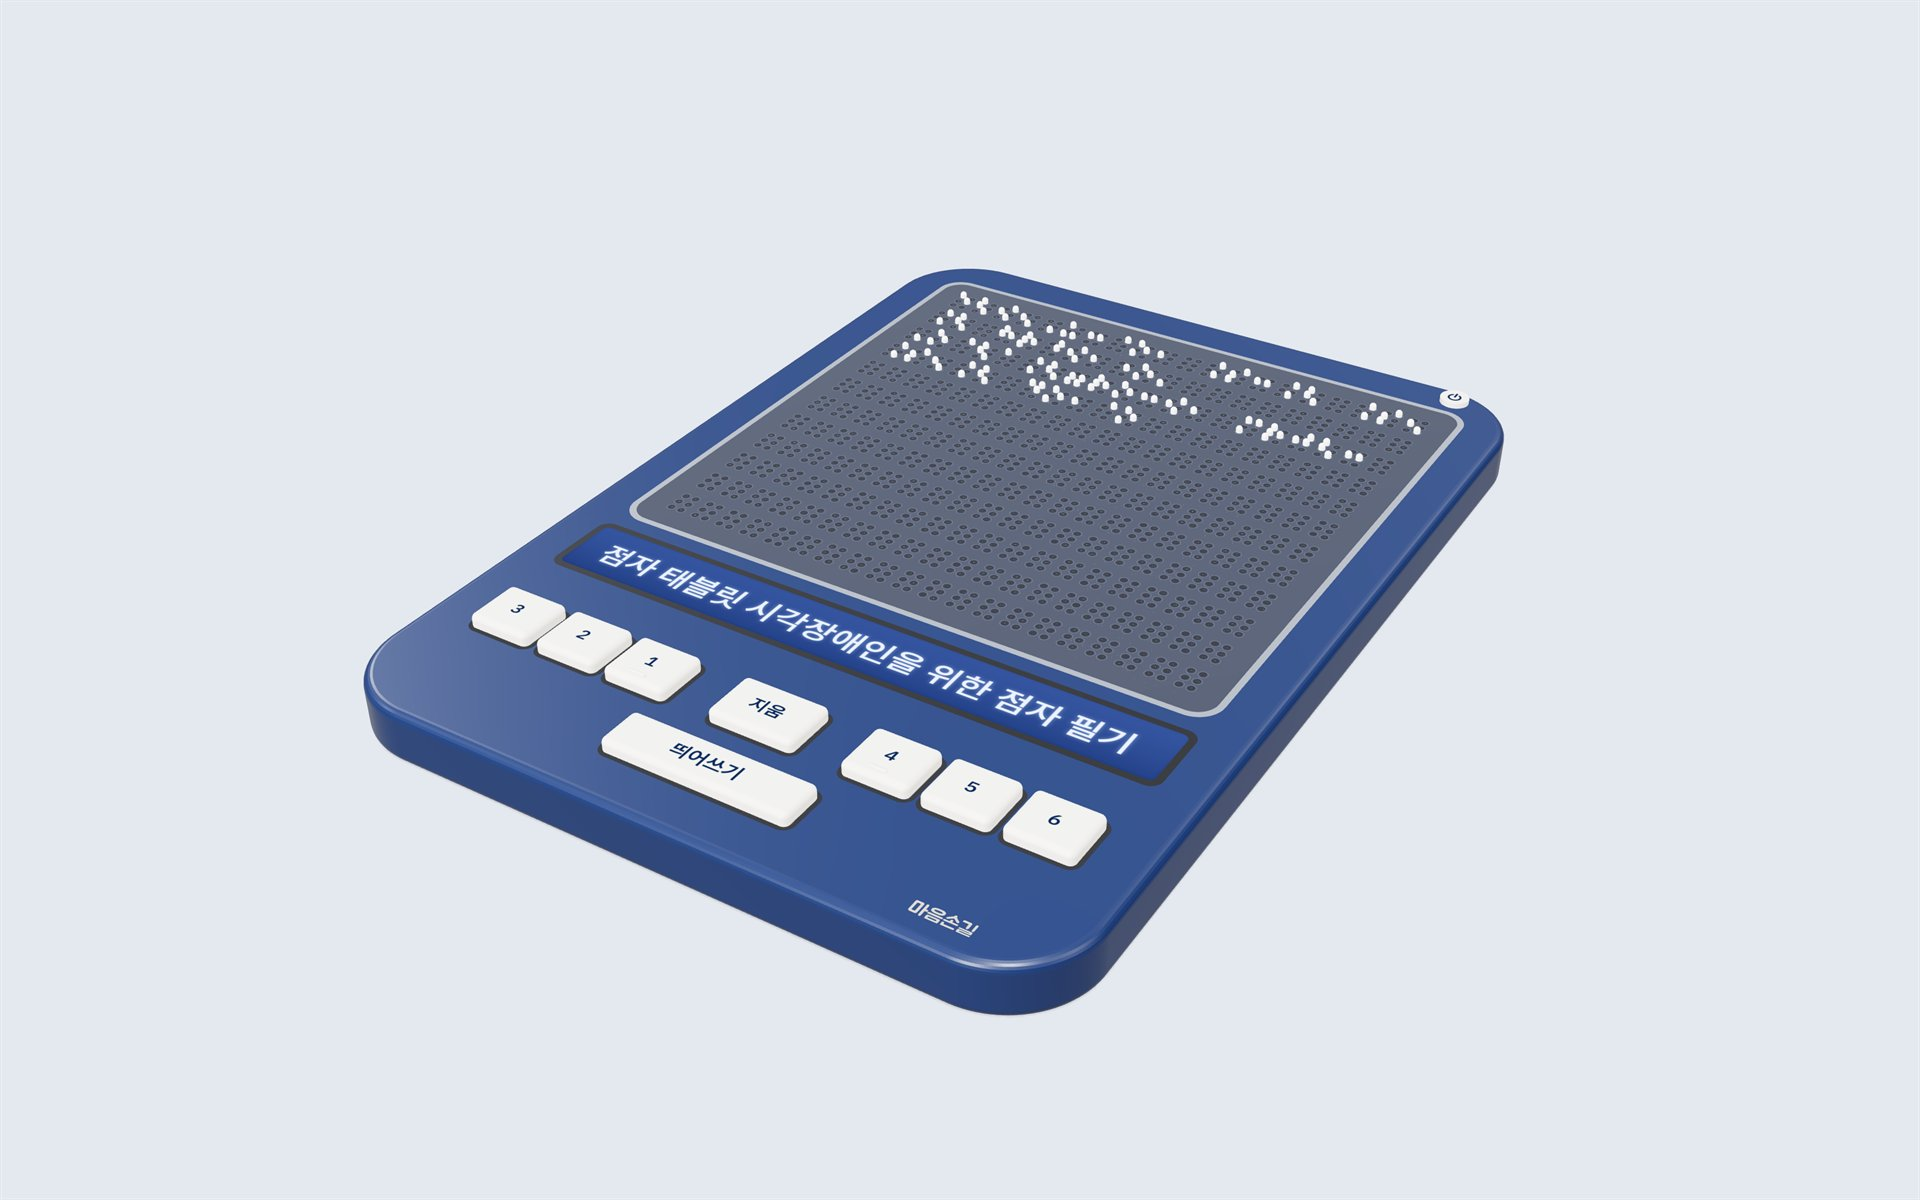
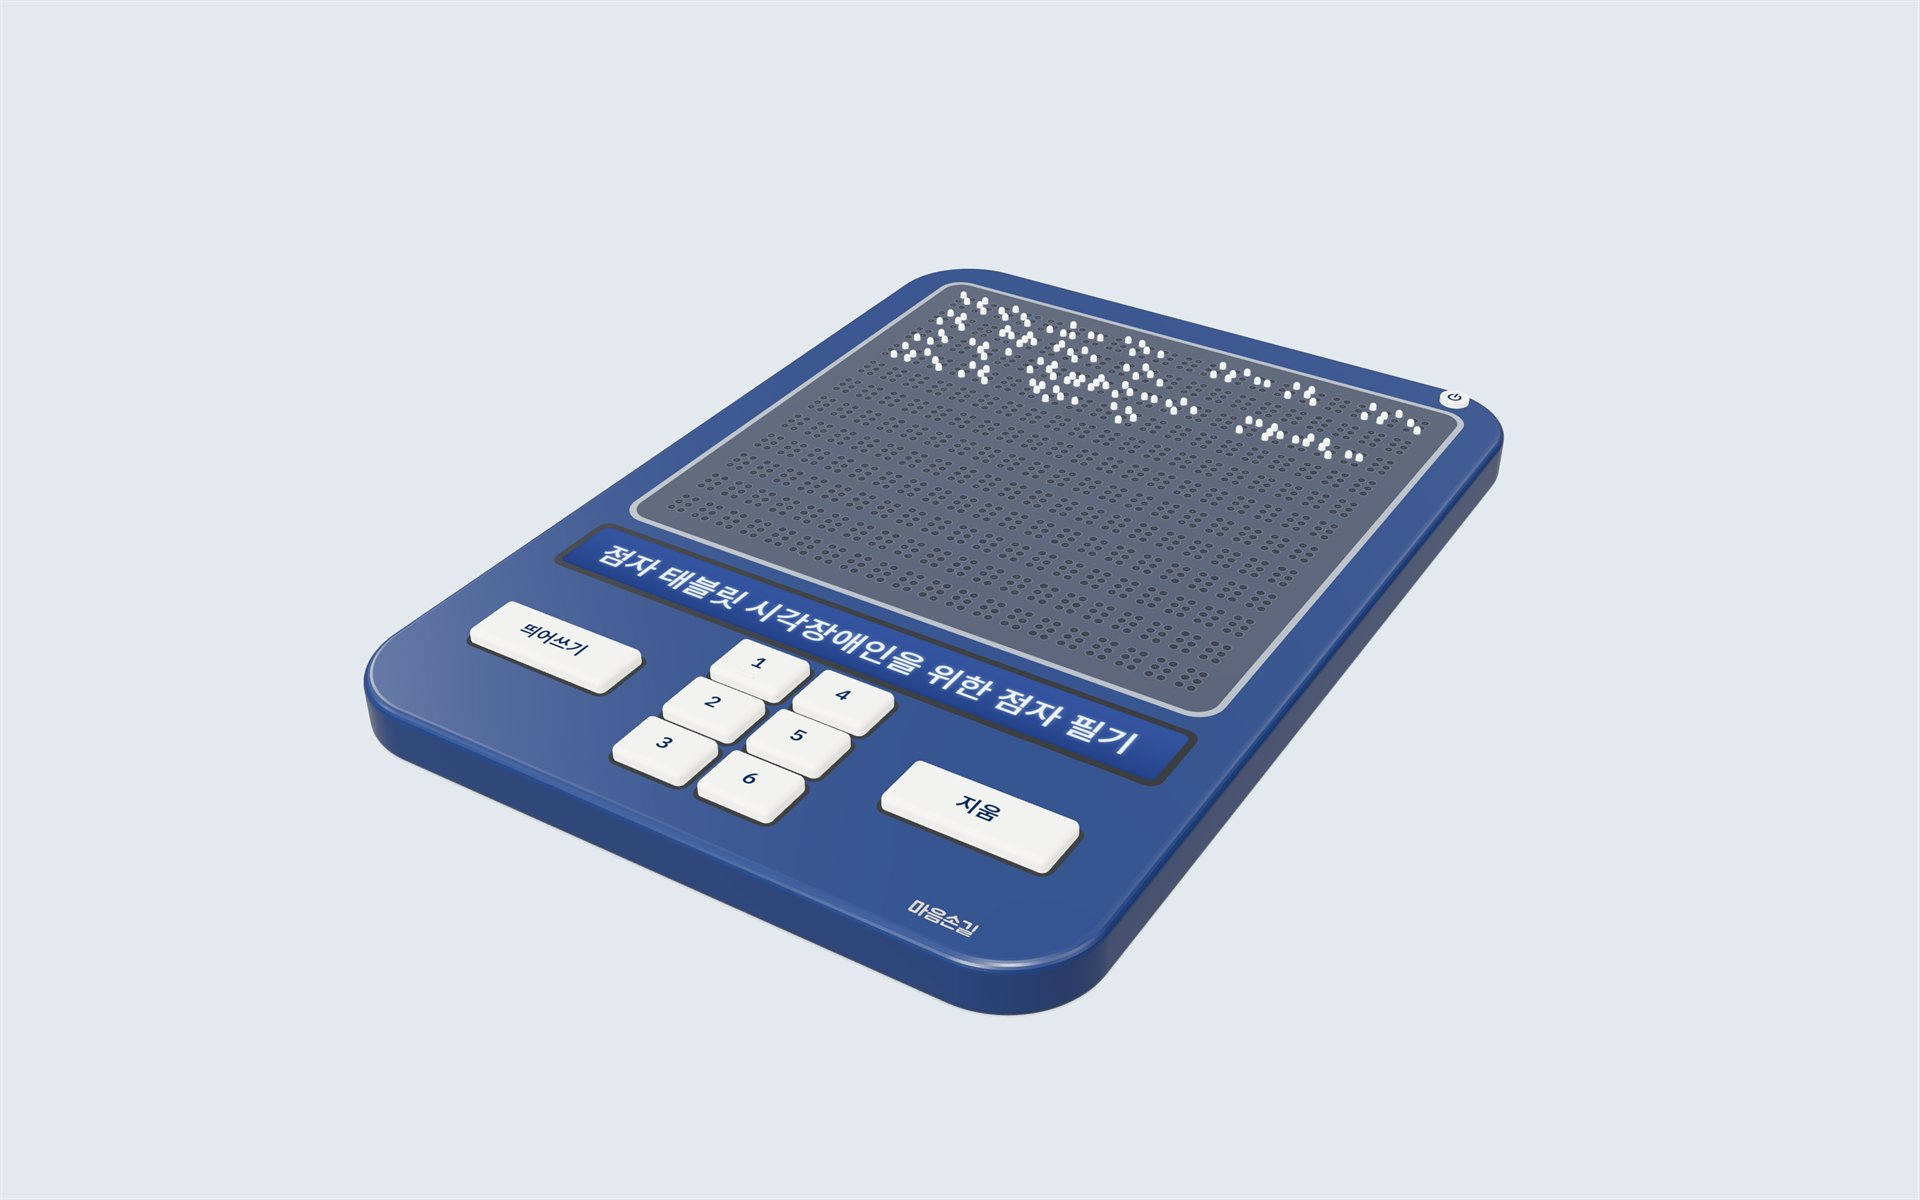
마음손길 3D 목업: 입력 버튼을 점자 칸처럼 2×3 배열로 변경, 이미지 재렌더

Changed region(s): [[0.2188, 0.4933, 0.5938, 0.74]]

diff --git a/mockups/maeum-songil-3d.html b/mockups/maeum-songil-3d.html
@@ -429,14 +429,16 @@ function addKey({ x, z, w, d, text, font, dot = 0, action = null }) {
   key.userData = { dot, action, press: 0, baseY: T + 0.12 };
   tablet.add(key); keys.push(key);
 }
-const KZ = 9.6;
-[[3, -7.6], [2, -5.5], [1, -3.4], [4, 3.4], [5, 5.5], [6, 7.6]].forEach(([dot, x]) =>
-  addKey({ x, z: KZ, w: 1.8, d: 1.6, text: String(dot), font: '500 76px "IBM Plex Mono", monospace', dot }));
-addKey({ x: 0, z: KZ, w: 2.4, d: 1.6, text: '지움', font: '500 60px "Noto Sans KR", sans-serif', action: 'del' });
-addKey({ x: 0, z: 11.9, w: 5.2, d: 1.3, text: '띄어쓰기', font: '500 56px "Noto Sans KR", sans-serif', action: 'space' });
+// dot keys laid out like one braille cell (2 × 3): 1 4 / 2 5 / 3 6
+const KEY_ROWS = [8.3, 10.1, 11.9], KEY_COLS = [-1.2, 1.2];
+for (let d = 1; d <= 6; d++) {
+  addKey({ x: KEY_COLS[d <= 3 ? 0 : 1], z: KEY_ROWS[(d - 1) % 3], w: 2.0, d: 1.5, text: String(d), font: '500 76px "IBM Plex Mono", monospace', dot: d });
+}
+addKey({ x: -6.0, z: KEY_ROWS[1], w: 4.2, d: 1.6, text: '띄어쓰기', font: '500 56px "Noto Sans KR", sans-serif', action: 'space' });
+addKey({ x: 6.0, z: KEY_ROWS[1], w: 4.2, d: 1.6, text: '지움', font: '500 60px "Noto Sans KR", sans-serif', action: 'del' });
 
-// tactile ridges on keys 1 and 4 (home position)
-for (const k of keys) if (k.userData.dot === 1 || k.userData.dot === 4) {
+// tactile ridge on key 1 so the cell's top-left can be found by touch
+for (const k of keys) if (k.userData.dot === 1) {
   const bump = new THREE.Mesh(new THREE.CapsuleGeometry(0.05, 0.4, 3, 8), keyMat);
   bump.rotation.z = Math.PI / 2; bump.position.set(0, 0.26, 0.55); k.add(bump);
 }
